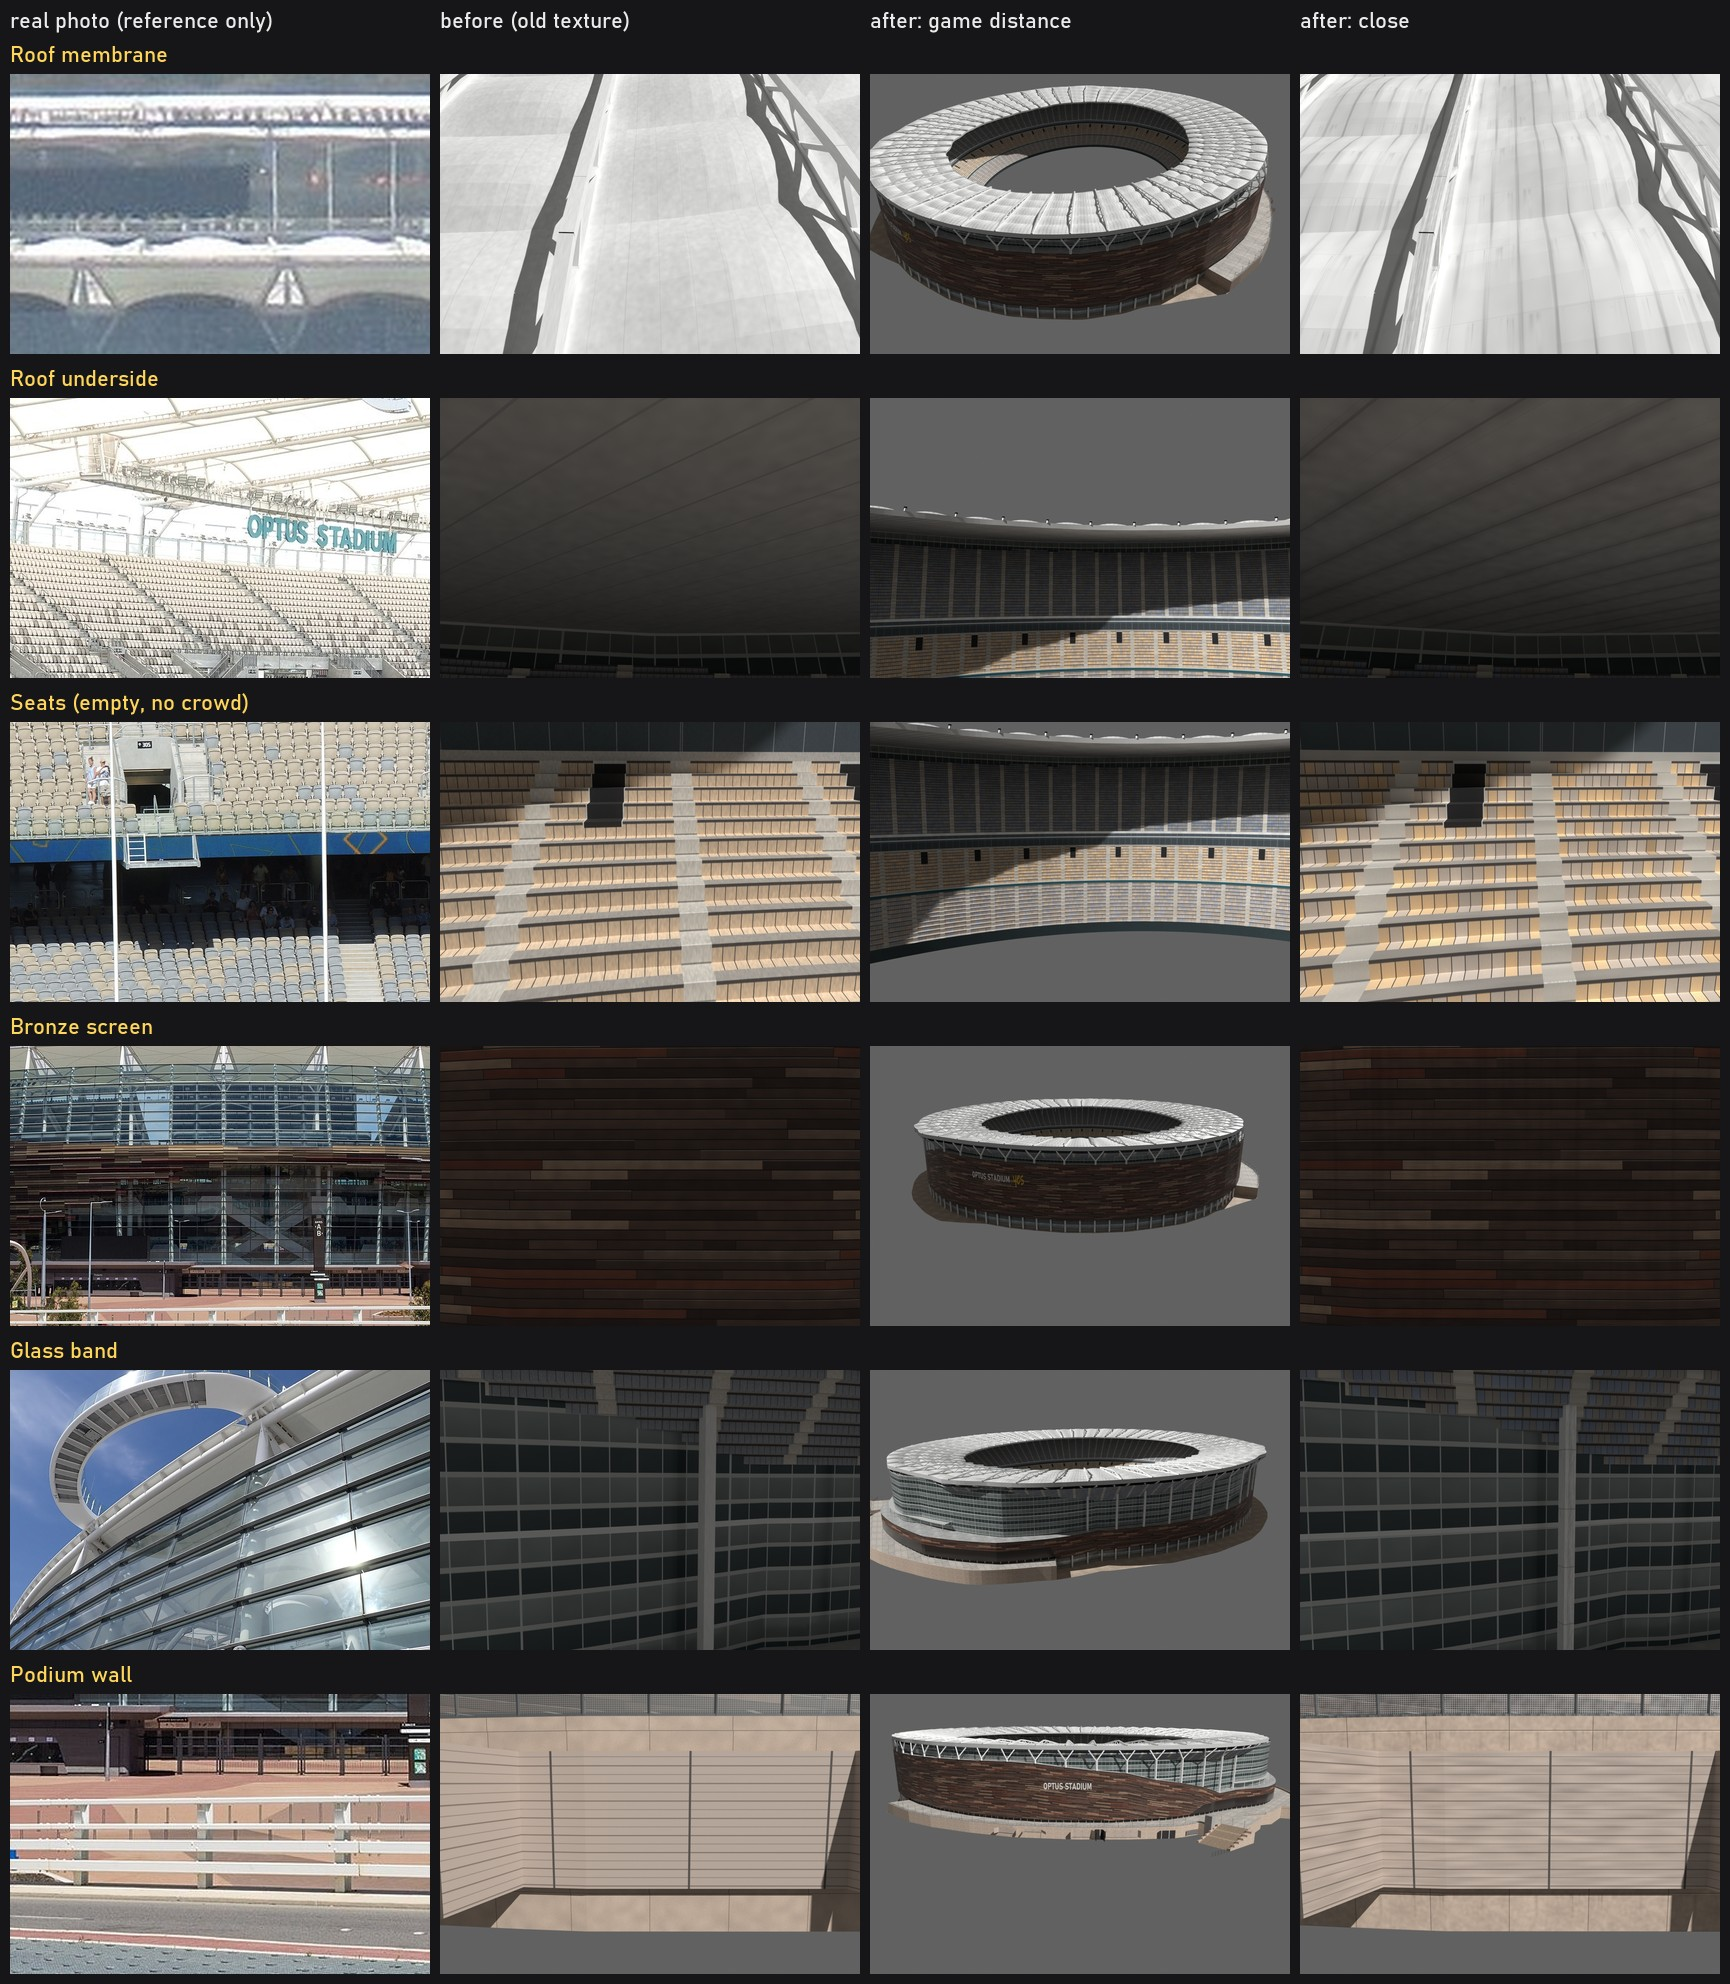
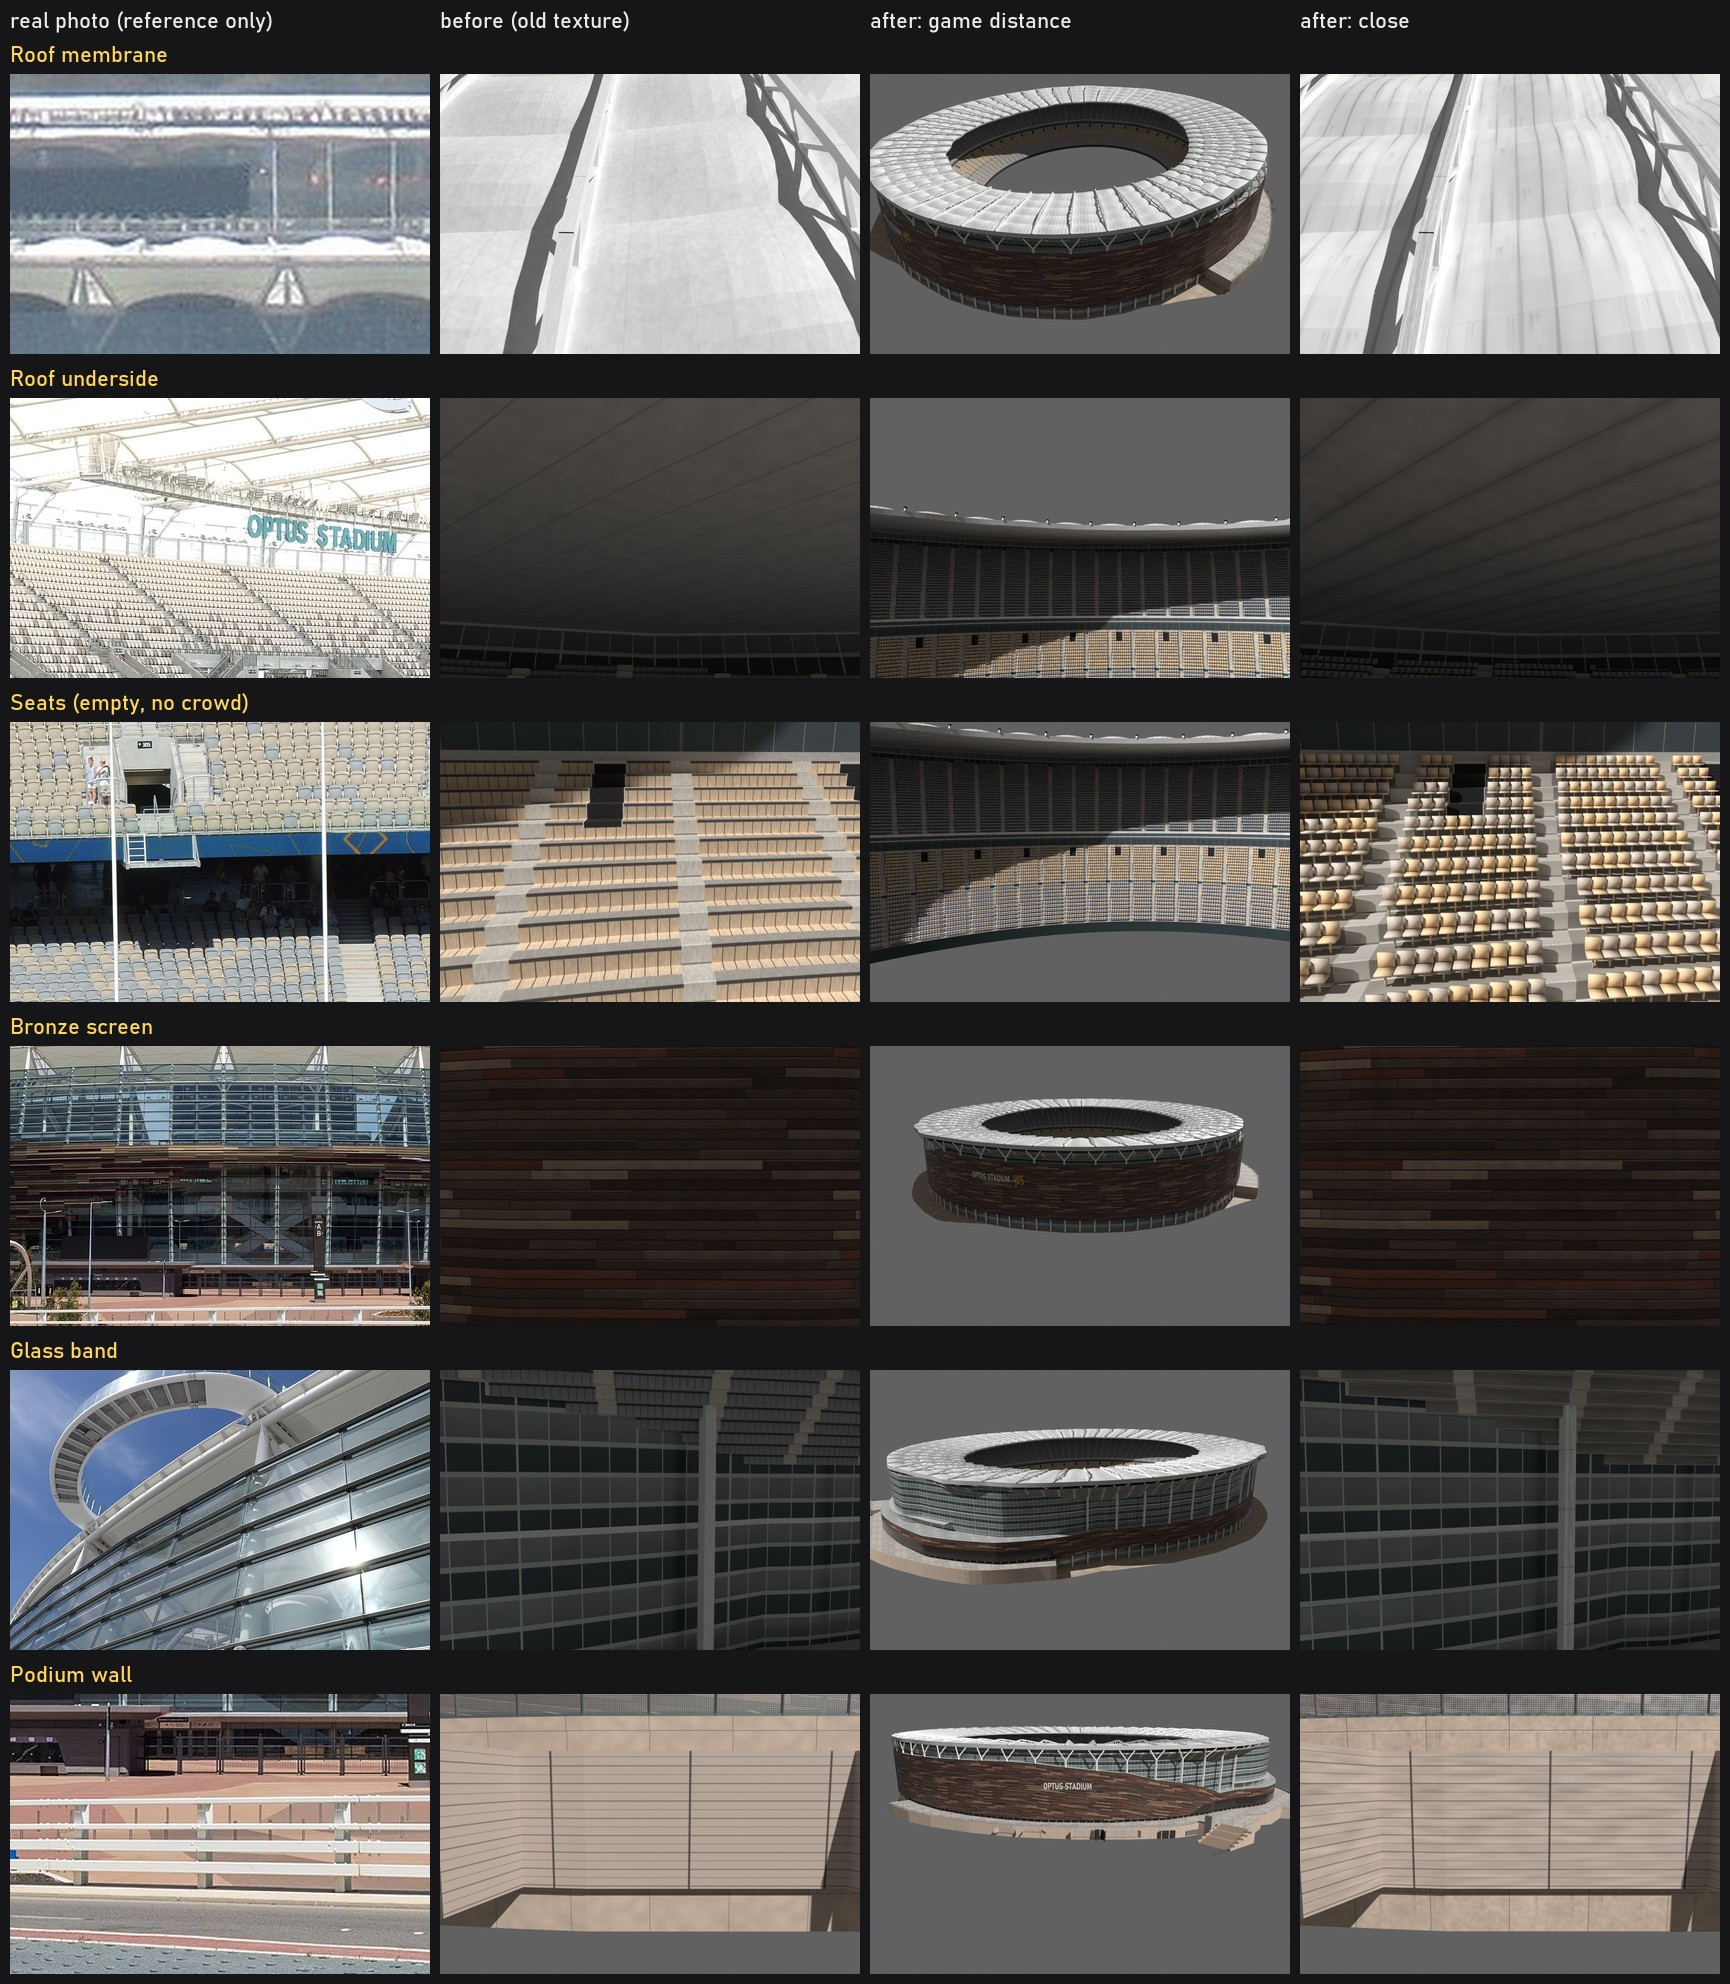
Optus: real 3D empty seats (pan, back, gap) on both tiers, painted seats removed
58,291 seats, 0.44 m at 0.5 m pitch on ~1.0 m treads, aisles and vomitories where the
stand texture paints them, tier colours pushed grey-blue or tan per seat. Risers and
treads repainted bare concrete. No crowd. Proof: proof/seat_board.jpg.

Changed region(s): [[0.4994, 0.375, 0.9988, 0.5312], [0.4994, 0.2812, 0.7491, 0.3438], [0.5618, 0.0625, 0.5931, 0.0938]]

diff --git a/.claude/review/optus/scripts/build.py b/.claude/review/optus/scripts/build.py
@@ -392,6 +392,57 @@ rp=[R0.lerp(R1,k/nr) for k in range(nr+1)]
 for zz in (0.12,0.95,1.86):sweep(rp,zz,zz+0.05,0.05,MRL)
 for p in rp:boxp(p,0.035,0.0,1.91,MRL)
 bm.to_mesh(me);bm.free()
+# ---------- real seats: pan + back per seat (0.44 m wide, 0.5 m pitch, 6 cm gap), on every row of both tiers.
+# Aisles and the vomitory stay where the stand texture paints them (bay metres 0 and 7.4, upper tier offset 3.7).
+# Colours: paint_tex's tier colours, each seat pushed toward grey-blue or tan, half each (Commons 032, 005).
+import numpy as np,random as _rnd
+_R=_rnd.Random(7)
+_TC={'lo':(216,208,203),'mid':(246,221,191),'up':(178,182,188)};_AX=np.array((0.70,0.76,0.82))-np.array((0.86,0.79,0.66));_AX/=np.linalg.norm(_AX)
+def _bx(x0,x1,y0,y1,z0,z1):
+    return [(x0,y0,z0),(x1,y0,z0),(x1,y1,z0),(x0,y1,z0),(x0,y0,z1),(x1,y0,z1),(x1,y1,z1),(x0,y1,z1)]
+_BF=[[0,3,2,1],[4,5,6,7],[0,1,5,4],[1,2,6,5],[2,3,7,6],[3,0,4,7]]
+_T=np.array(_bx(-0.22,0.22,-0.22,0.20,0.40,0.46)+_bx(-0.22,0.22,-0.30,-0.24,0.46,0.86)+_bx(-0.025,0.025,-0.12,-0.04,0.0,0.40))
+_TF=[[f+o for f in ff] for o in (0,8,16) for ff in _BF]
+SEAT=[];SMAT=[];_depth=[]
+def _seats(Ra,za,Rb,zb,rowsn,tier_of,aoff,vom):
+    for r in range(1,rowsn+1):
+        t0=(r-1)/rowsn;t1=r/rowsn;pz=za+(zb-za)*t0
+        Rf=[Ra[i].lerp(Rb[i],t0) for i in range(N)];Rk=[Ra[i].lerp(Rb[i],t1) for i in range(N)]
+        R=[Rf[i].lerp(Rk[i],0.55) for i in range(N)];_depth.append((Rk[0]-Rf[0]).length)
+        cs=arcs(R);sc_=cs[N]/SL[N];tn=tier_of(r-1);s=0.3
+        while s<cs[N]-0.3:
+            i=max(0,min(N-1,max(k for k in range(N) if cs[k]<=s) if s>0 else 0));f=(s-cs[i])/max(cs[i+1]-cs[i],1e-9)
+            bay=(SU[i]+(SU[i+1]-SU[i])*f)*14.8;m=(bay-aoff)%7.4;d=min(m,7.4-m)*sc_
+            if d<0.6*sc_+0.22:s+=0.1;continue
+            bm_=(bay%14.8)
+            if vom and pz+0.01>=10.2*ZK and 3.2-0.25<=bm_<=5.0+0.25:s+=0.1;continue
+            j=(i+1)%N;p=R[i].lerp(R[j],f);fw=-(p-oc);fw.z=0;fw.normalize()
+            SEAT.append((p.x,p.y,pz,fw.x,fw.y))
+            c=np.array(_TC[tn])/255*(1.0 if (r-1)%2 else 0.96)+(1 if _R.random()<0.5 else -1)*0.075*_R.uniform(0.7,1.0)*_AX
+            SMAT.append(c);s+=0.5
+_seats(L0,1.6*ZK,L1,12.0*ZK,24,lambda r:'lo' if 1.6+10.4*(r+1)/24<=6.4+0.01 else 'mid',0.0,True)
+_seats(L1,15.0*ZK,L3,31.5*ZK,30,lambda r:'up',3.7,False)
+print('seats',len(SEAT),'tread depth min/max %.2f %.2f'%(min(_depth),max(_depth)))
+SE=np.array(SEAT,float);SC=np.clip(np.array(SMAT),0,1)
+# six plastics: each tier colour pushed grey-blue or tan (mean of its seats), so the export stays plain materials
+_TL=[];_TLc=[]
+for tn,base in _TC.items():
+    b=np.array(base)/255
+    for sgn in (1,-1):_TL.append((tn,sgn));_TLc.append(b+sgn*0.075*0.85*_AX)
+_TLc=np.clip(np.array(_TLc),0,1)
+mi=np.argmin(((SC[:,None,:]-_TLc[None,:,:])**2).sum(2),1)
+fwd=np.c_[SE[:,3:5],np.zeros(len(SE))];side=np.c_[fwd[:,1],-fwd[:,0],np.zeros(len(SE))]
+V=(SE[:,None,:3]+_T[None,:,0,None]*side[:,None,:]+_T[None,:,1,None]*fwd[:,None,:]+_T[None,:,2,None]*np.array([0,0,1.0])).reshape(-1,3)
+nT=len(_T);F=(np.array(_TF)[None,:,:]+(np.arange(len(SE))*nT)[:,None,None]).reshape(-1,4)
+sme=bpy.data.meshes.new('seats3d');sme.vertices.add(len(V));sme.vertices.foreach_set('co',V.ravel())
+sme.loops.add(F.size);sme.loops.foreach_set('vertex_index',F.ravel());sme.polygons.add(len(F))
+sme.polygons.foreach_set('loop_start',np.arange(0,F.size,4));sme.polygons.foreach_set('material_index',np.repeat(mi,len(_TF)))
+sme.update();sme.validate()
+for (tn,sgn),c in zip(_TL,_TLc):
+    sm=bpy.data.materials.new('seat_%s_%s'%(tn,'blue' if sgn>0 else 'tan'));sm.use_nodes=True;sb=sm.node_tree.nodes['Principled BSDF']
+    sb.inputs['Base Color'].default_value=(*[float(x)**2.2 for x in c],1);sb.inputs['Roughness'].default_value=0.55;sme.materials.append(sm)
+sob=bpy.data.objects.new('seats3d',sme);bpy.context.scene.collection.objects.link(sob)
+json.dump({'n':len(SEAT),'seats':[[round(float(x),3) for x in s] for s in SEAT[::50]]},open(os.path.join(here,'seats_sample.json'),'w'))
 bpy.ops.wm.save_as_mainfile(filepath=os.path.abspath(blend))
 bpy.ops.object.select_all(action='SELECT')
 bpy.ops.export_scene.gltf(filepath=os.path.abspath(dst),export_format='GLB')

diff --git a/.claude/review/optus/scripts/paint_tex.py b/.claude/review/optus/scripts/paint_tex.py
@@ -63,11 +63,8 @@ def rowband(z0,z1,n,tier_of,aoff=0.0):
         sc=(SC[None,:]+k[:,None]*AX[None,:])*tone[:,None]
         cols=sc[np.minimum(np.arange(SW)//s_px,nseat-1)]                                   # (SW,3)
         t=yA-yM;yp=yM+max(1,t//2)
-        a[yB:yM]=cols[None]*0.88                                                            # seat backs
-        a[yM:yp]=cols[None]                                                                 # seat pans
-        if yp-yM>=2:a[yM:yM+1]=np.minimum(cols[None]*1.08,1)                               # lit front lip of the pan
-        for x in range(0,SW,s_px):a[yB:yp,x:x+2]=GAP
-        a[yB:yB+max(1,(yM-yB)//5)]=GAP*1.2
+        a[yB:yM]=CON*0.84*(1-0.08*tread_dirt[yB:yM,:,None])                                 # bare riser: the seats are real 3D now (build.py)
+        a[yM-1:yM+1]=np.array((236,234,228))/255                                            # tread nosing
         for ax in [0.0,7.4]:
             x0=int((ax+aoff)*PX)-int(0.6*PX);x1=int((ax+aoff)*PX)+int(0.6*PX)
             for xa,xb in ((x0,x1),(x0+SW,x1+SW),(x0-SW,x1-SW)):

diff --git a/.claude/review/optus/READY.md b/.claude/review/optus/READY.md
@@ -15,6 +15,17 @@ and photo o2 (south-west, without it). No crowd was in the model; nothing remove
 - Rebuild order: `scripts/paint_tex.py` (reads `tex_base/`, writes `tex/`), then build.py. Views: `scripts/shots.py`
   writes `views_tex.json`; `scripts/views.py` renders it; `scripts/board_tex.py` makes the boards.
 
+## 3D seats (2026-11-20)
+Real empty seats replace the painted ones: 58,291 seats, each a pan, a back and a pedestal (0.44 m wide at 0.5 m pitch,
+so a 6 cm gap between seats), one per row on the ~1.0 m concrete treads of both tiers (24 + 30 rows). Aisles and the
+vomitories stay where the stand texture paints them (every 7.4 m of a 14.8 m bay, upper tier offset 3.7 m), so they
+run straight up each tier. Colours are the texture pass's tier colours (lower cream, middle tan, upper grey), each seat
+pushed toward grey-blue or tan at random, as in the empty-seat photos; six plain plastic materials. The painted seats
+are gone from `tex/seats.png`: risers and treads are bare concrete with worn nosings. No crowd.
+- `proof/seat_board.jpg`: the photo crop beside two seat-height close-ups and the lower tier's rows and aisles.
+- `proof/tex_board_1.jpg`: seats row re-rendered with the 3D seats.
+- Code: the seat block at the end of `scripts/build.py`; the riser repaint in `scripts/paint_tex.py` (rowband).
+
 ## Proof (all in this folder)
 - `proof/board.png`: photo | render from the matched camera | 50% overlay. `proof/edges.png`: edge overlay.
   `proof/parts.png`: part-by-part crops, photo beside render (roof, glass, bronze, podium, stair, lift, west terrace).
@@ -75,7 +86,7 @@ and photo o2 (south-west, without it). No crowd was in the model; nothing remove
   topdown.py, topov.py, roofsat.py, roofmark.py, period.py, stov.py, stz.py, cpair.py, texture makers.
 - `tex_base/`: the first hand-made textures; `tex/`: the texture-pass maps the build reads (build.py looks for `tex/` beside itself: copy it into `scripts/`
   before building). The ground mat and turf are no longer loaded (the game draws the turf).
-- The 84 MB glb is not committed; build.py rebuilds it (148,873 triangles). Last gate-passed model:
+- The glb is not committed; build.py rebuilds it (148,873 triangles plus the seats3d object, 105 MB). Last gate-passed model:
   `.claude/review/optus_model/` (commit 82bc8feb3).
 
 ## Gate checklist (ground builder rules, 8 items)
